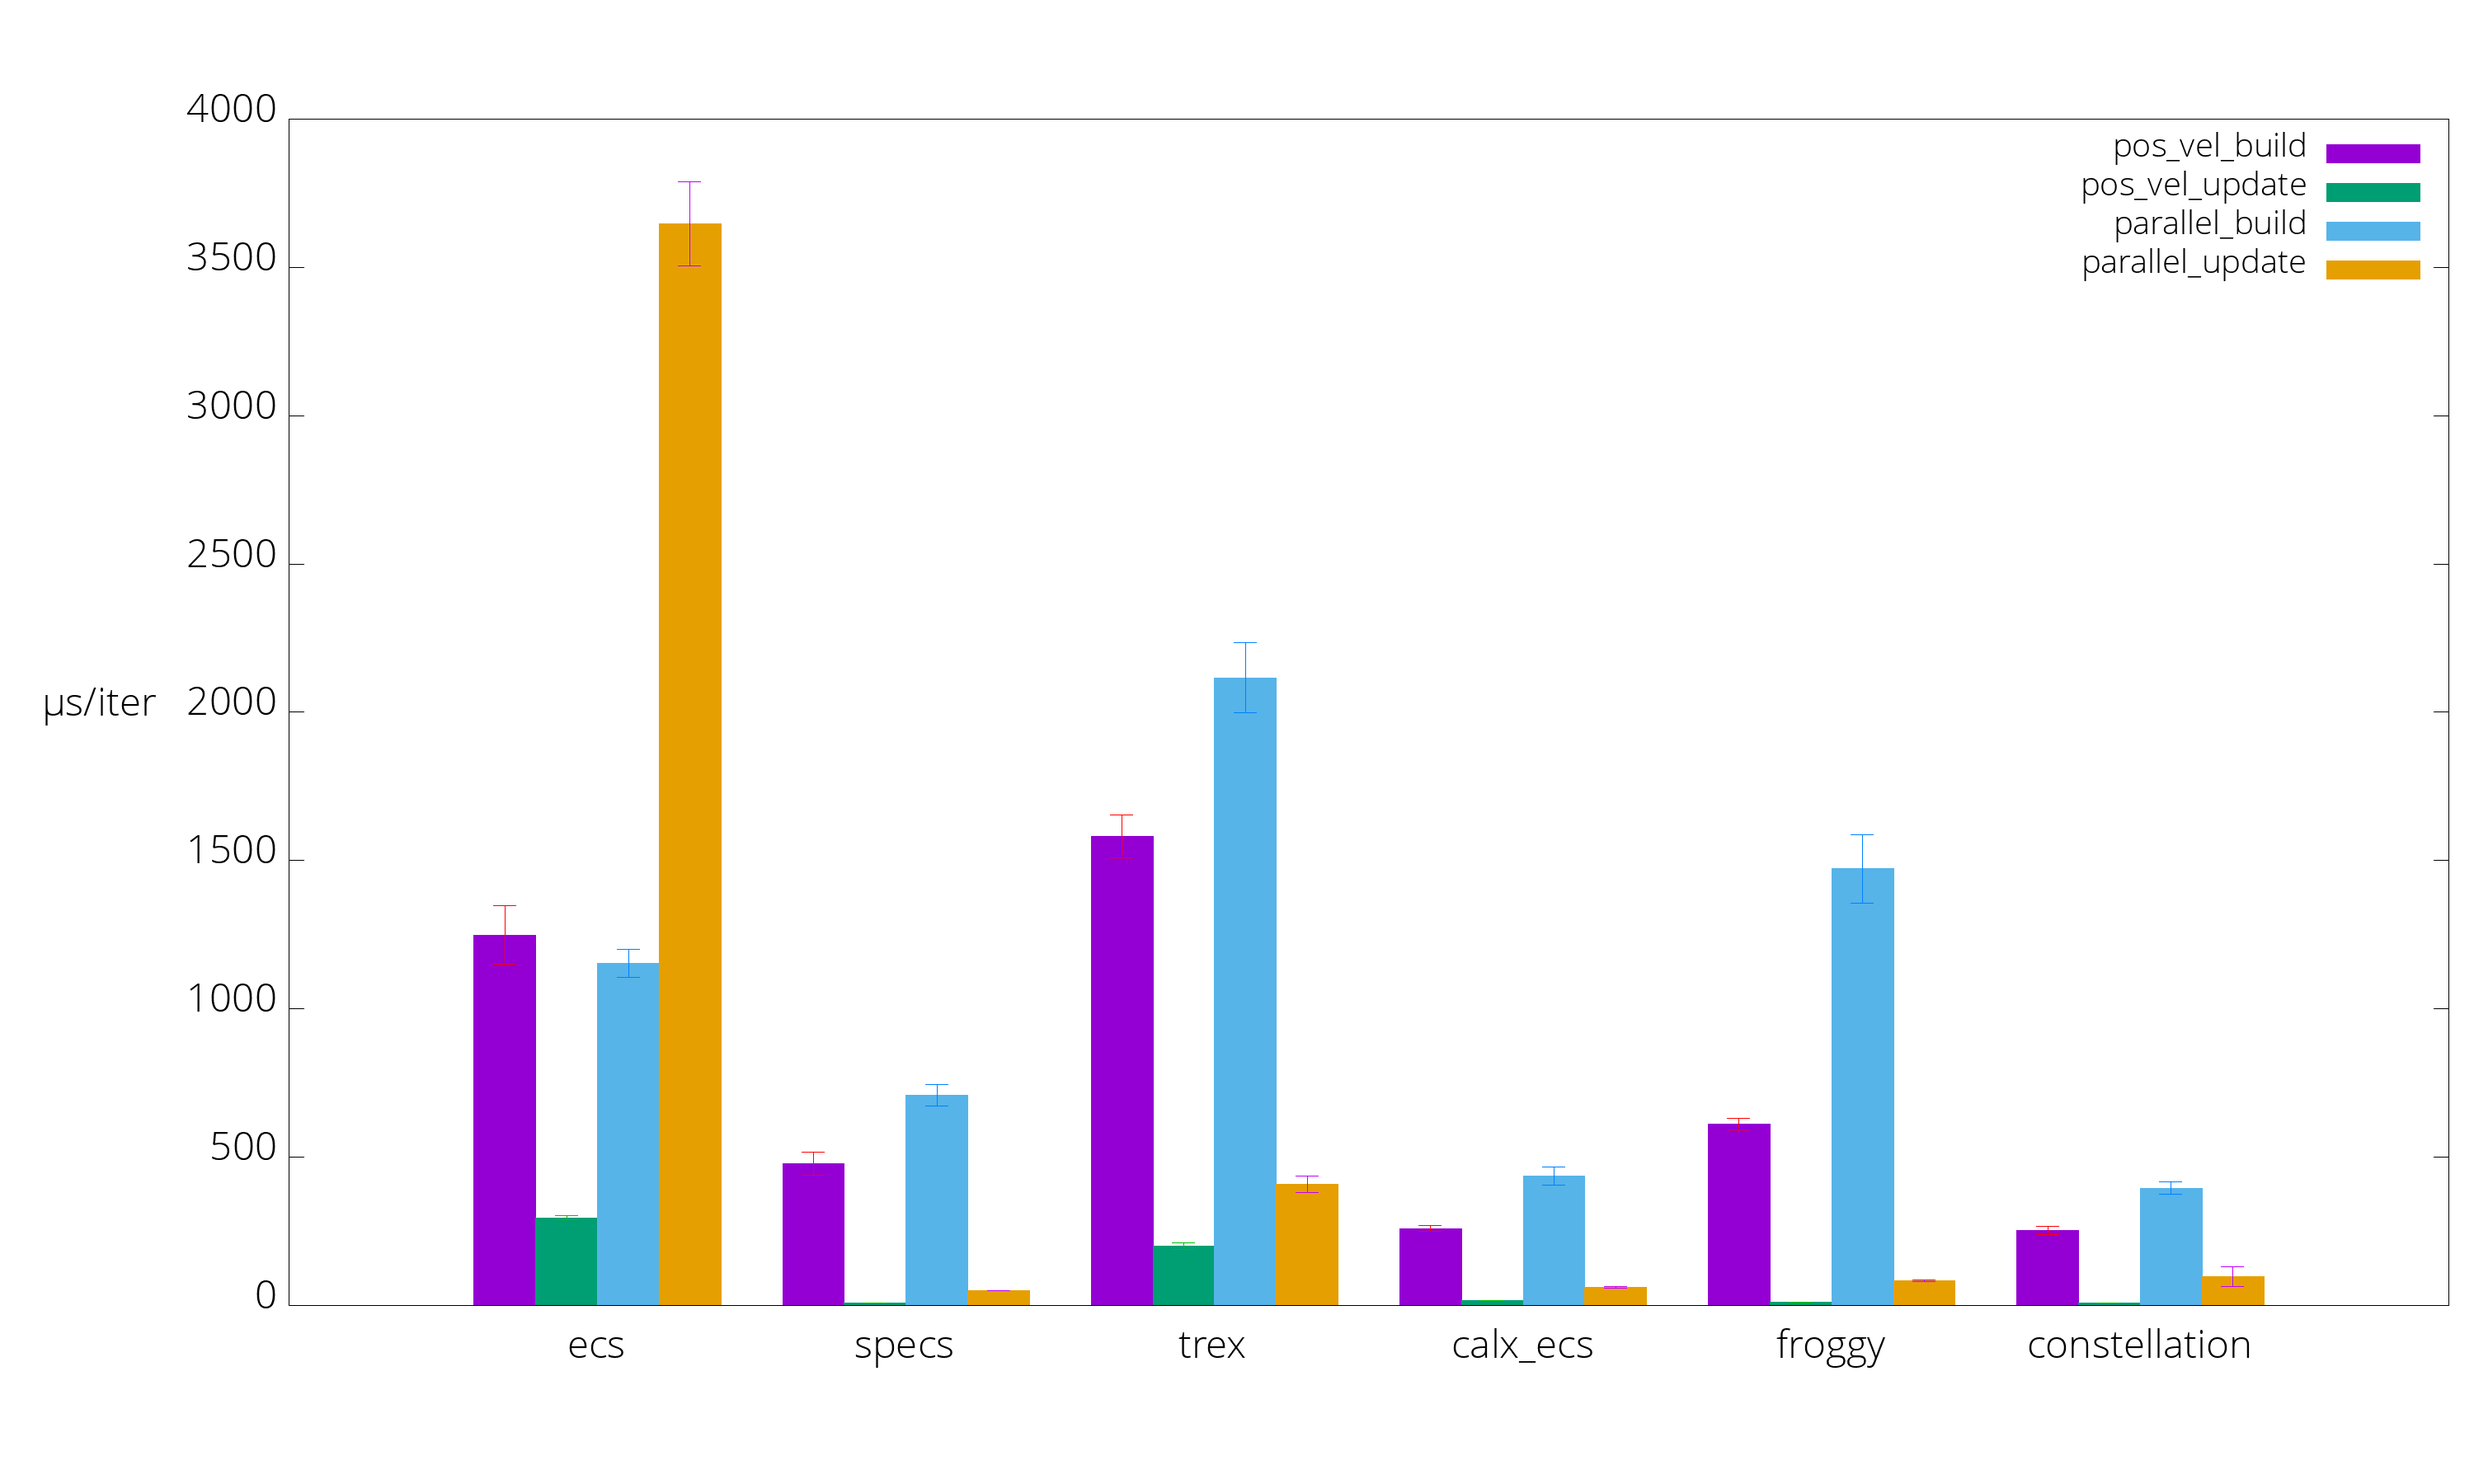
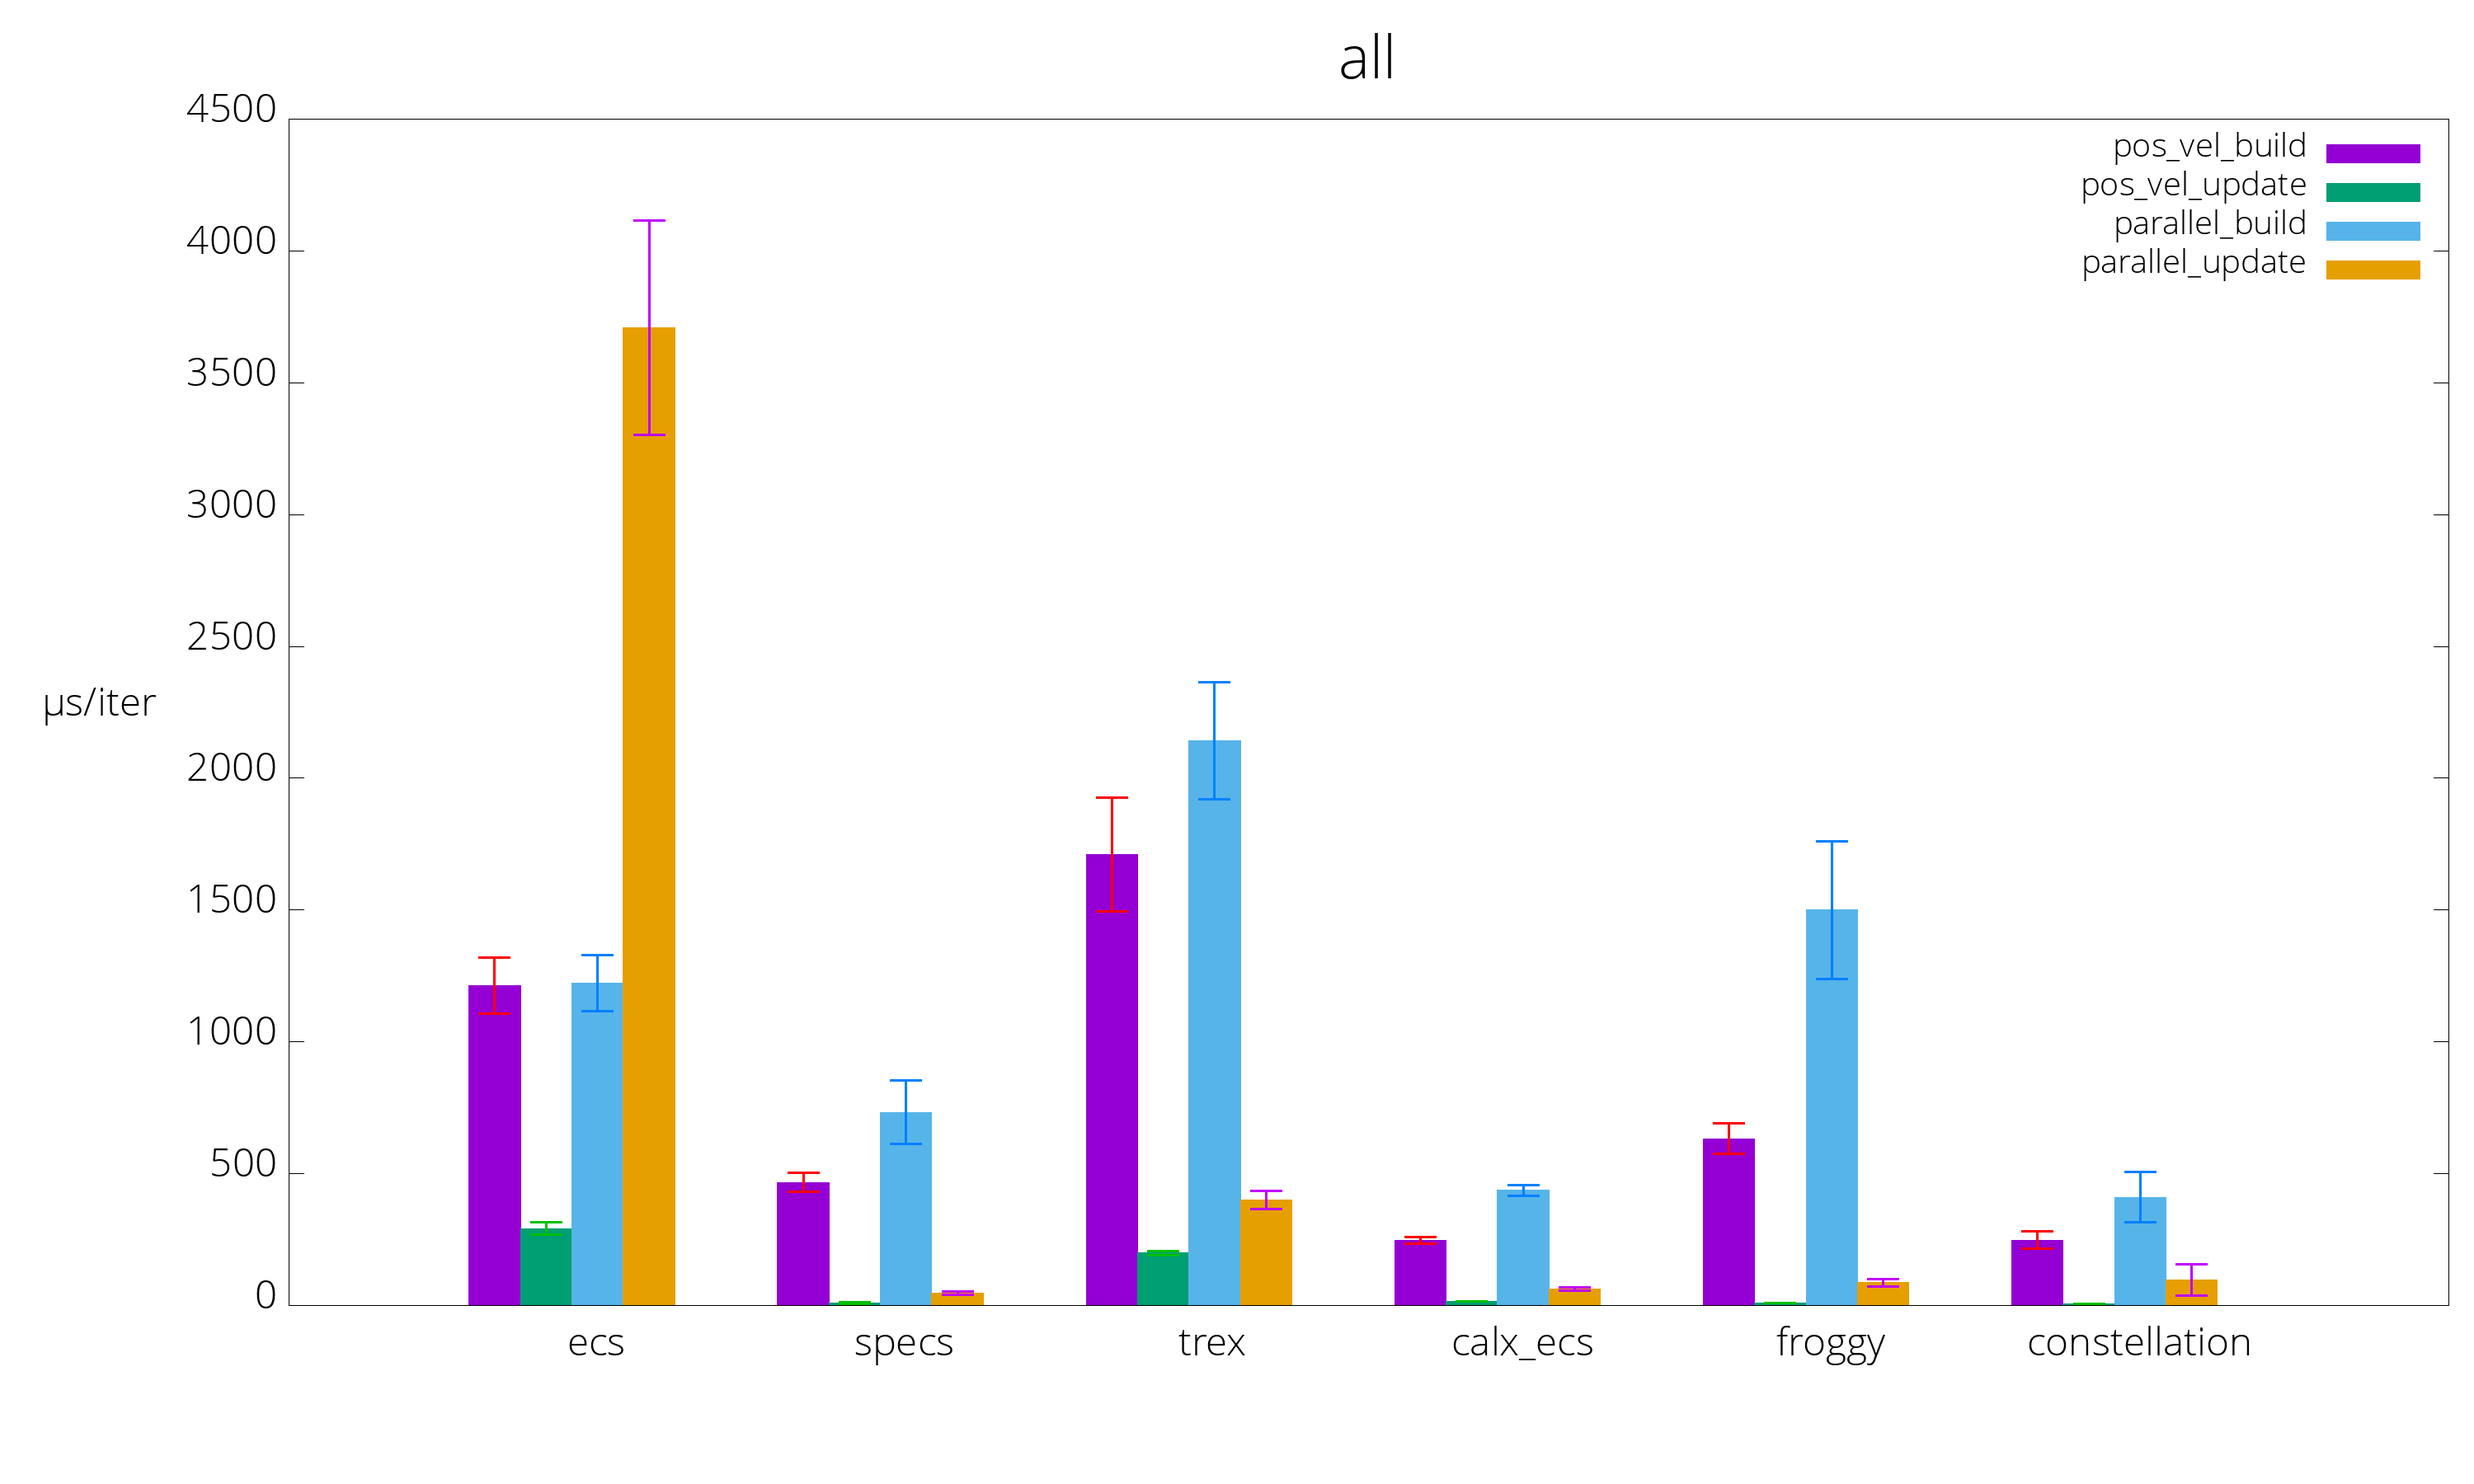
Better formatting for variance in columns

diff --git a/bench_results.py b/bench_results.py
@@ -77,9 +77,6 @@ for target in bench_targets:
             final = commas(result) + " " + ms + "s/iter (+/- " + commas(error) + ")"
             readme = readme.replace('{' + target + '_' + name + '_' + bench + '}', final)
             dataset[name][target][bench] = (result, error)
-            print "inserting: [{}][{}][{}] = {}".format(name, target, bench, (result, error))
-
-print "dataset: ", dataset
 
 def graph(dataset, targets, names, benches, title):
     data = table_format(dataset, targets, names, benches, title)
@@ -88,8 +85,8 @@ def graph(dataset, targets, names, benches, title):
         dat.write(formatted)
 
     # commands to send to `gnuplot`
-    args = "gnuplot -e \"data=\'./graph/{}.dat';\" ./graph/graph.script > ./graph/{}.png"
-    subprocess.call(args.format(title, title), stderr=subprocess.STDOUT, shell=True)
+    args = "gnuplot -e \"data=\'./graph/{0}.dat';title=\'{0}\';\" ./graph/graph.script > ./graph/{0}.png"
+    subprocess.call(args.format(title, len(targets) * len(names)), stderr=subprocess.STDOUT, shell=True)
 
 graph(dataset, bench_targets, bench_names, benches, "all")
 graph(dataset, bench_targets, ["update"], benches, "update")

diff --git a/README.md b/README.md
@@ -7,13 +7,13 @@ Benchmarks are located in `benches/[bench_name]_[ecs_crate_name].rs`.
 
  Library         | pos_vel build                 | pos_vel update                 | parallel build                 | parallel update
  --------------- |:-----------------------------:|:------------------------------:|:------------------------------:|:--------------------------------:
- [calx-ecs]      | 259 µs/iter (+/- 10)      | 16 µs/iter (+/- 0)      | 437 µs/iter (+/- 30)      | 62 µs/iter (+/- 3)
- [constellation] | 252 µs/iter (+/- 14) | 7 µs/iter (+/- 0) | 396 µs/iter (+/- 22) | 97 µs/iter (+/- 33)
- [ecs]           | 1,249 µs/iter (+/- 98)           | 296 µs/iter (+/- 8)           | 1,154 µs/iter (+/- 48)           | 3,648 µs/iter (+/- 142)
- [froggy]        | 611 µs/iter (+/- 19)        | 10 µs/iter (+/- 0)        | 1,472 µs/iter (+/- 115)        | 84 µs/iter (+/- 3)
+ [calx-ecs]      | 247 µs/iter (+/- 14)      | 17 µs/iter (+/- 0)      | 437 µs/iter (+/- 21)      | 62 µs/iter (+/- 6)
+ [constellation] | 248 µs/iter (+/- 32) | 7 µs/iter (+/- 0) | 411 µs/iter (+/- 96) | 96 µs/iter (+/- 59)
+ [ecs]           | 1,213 µs/iter (+/- 107)           | 292 µs/iter (+/- 24)           | 1,223 µs/iter (+/- 106)           | 3,708 µs/iter (+/- 407)
+ [froggy]        | 632 µs/iter (+/- 58)        | 10 µs/iter (+/- 0)        | 1,500 µs/iter (+/- 262)        | 86 µs/iter (+/- 13)
  [recs]          | {pos_vel_build_recs}          | {pos_vel_update_recs}          | {parallel_build_recs}          | {parallel_update_recs}
- [specs]         | 478 µs/iter (+/- 40)         | 8 µs/iter (+/- 0)         | 709 µs/iter (+/- 37)         | 50 µs/iter (+/- 1)
- [trex]          | 1,581 µs/iter (+/- 73)          | 200 µs/iter (+/- 12)          | 2,116 µs/iter (+/- 118)          | 409 µs/iter (+/- 27)
+ [specs]         | 467 µs/iter (+/- 37)         | 9 µs/iter (+/- 2)         | 733 µs/iter (+/- 121)         | 47 µs/iter (+/- 5)
+ [trex]          | 1,711 µs/iter (+/- 215)          | 199 µs/iter (+/- 8)          | 2,142 µs/iter (+/- 221)          | 400 µs/iter (+/- 34)
 
 [calx-ecs]: https://github.com/rsaarelm/calx-ecs
 [constellation]: https://github.com/TomGillen/constellation/
